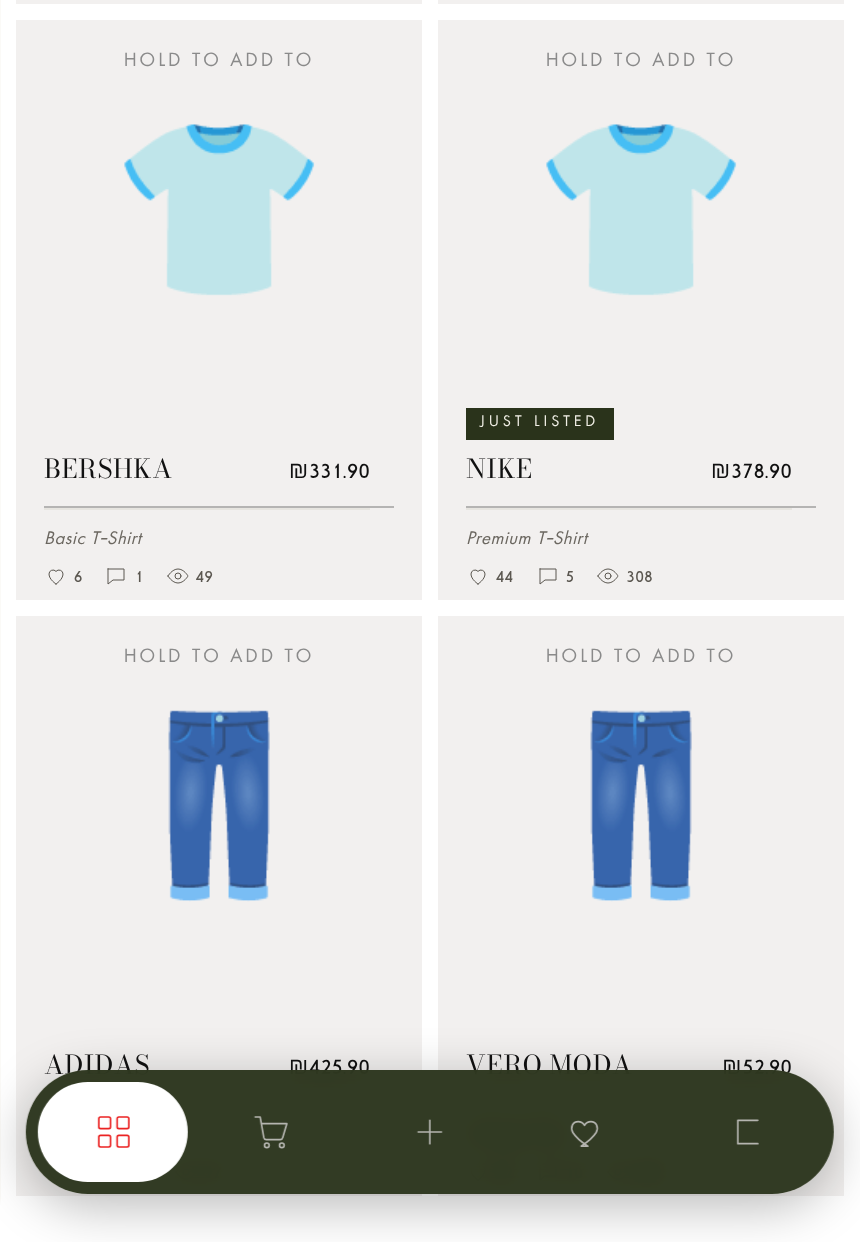
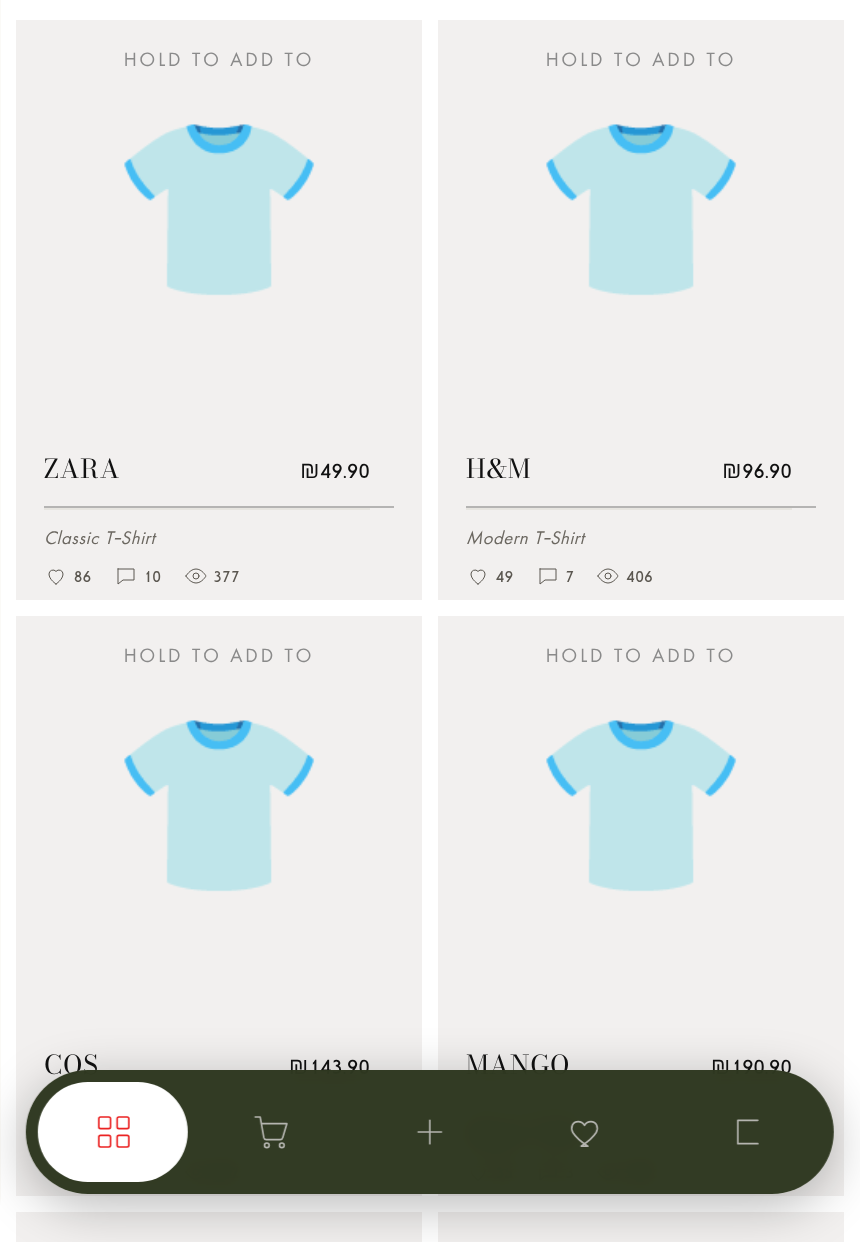
Feed cards: drop the Popular / Just listed tag
Claude-Session: https://claude.ai/code/session_011eJFT5j73mRgnWhpcGvqfp

diff --git a/index.html b/index.html
@@ -6045,12 +6045,10 @@
 
         /* ---- Feed & category cards: social proof (option 8h) ----
            A third copy row under the name — saves · offers · views as outline
-           icons — and, on some cards, a small deep-oak tag sitting on the field
-           just above the copy (clear of the centred hold hint at the top). The
-           foot grows by one row so the piece keeps its room. */
+           icons. The foot grows by one row so the piece keeps its room. */
         .products-grid .product-card,
         .acat-grid .product-card { --foot-h: 92px; }
-        .pc-stats, .pc-tag { display: none; }
+        .pc-stats { display: none; }
         .products-grid .pc-stats,
         .acat-grid .pc-stats {
             grid-area: 4 / 1 / 5 / -1;
@@ -6070,20 +6068,6 @@
             fill: none; stroke: #5b5750; stroke-width: 1.6 !important;
             stroke-linecap: round; stroke-linejoin: round;
         }
-        .products-grid .pc-tag,
-        .acat-grid .pc-tag {
-            display: block;
-            position: absolute; left: 14px; bottom: calc(var(--foot-h) - 12px);
-            z-index: 3; pointer-events: none;
-            background: #2A331B; color: #f1efe6;
-            padding: 3px 7px;
-            font-family: 'Oswald', 'Segoe UI', Helvetica, Arial, sans-serif !important;
-            font-size: 8px; font-weight: 400; letter-spacing: 2px; line-height: 1.2;
-            text-transform: uppercase;
-        }
-        /* A sale card already carries its frame and red price — no second tag. */
-        .products-grid .product-card.is-sale .pc-tag,
-        .acat-grid .product-card.is-sale .pc-tag { display: none; }
 
         /* ==================== SECURE CHAT — Quiet Luxury UI ==================== */
         .vchat {
@@ -10508,8 +10492,7 @@ window.veroLocalImg = function (key) {
         // (which some engines ignore for negative RTL offsets).
         // Build a single product card (shared by the home feed and category pages
         // so both render at identical size and form).
-        // Social proof on the feed card (option 8h): saves · offers · views, plus
-        // an occasional "Just listed" / "Popular" tag. A product's own counts are
+        // Social proof on the feed card (option 8h): saves · offers · views. A product's own counts are
         // used when it carries them; until the backend tracks these, steady demo
         // figures are derived from the product id so a card never changes between
         // renders.
@@ -10521,8 +10504,7 @@ window.veroLocalImg = function (key) {
             const saves = prod.saves ?? prod.likes ?? (h % 96) + 4;
             const offers = prod.offers ?? Math.floor(saves / 9) + ((h >>> 8) % 3);
             const views = prod.views ?? saves * (4 + ((h >>> 12) % 5)) + ((h >>> 16) % 40);
-            const tag = prod.tag ?? (saves >= 88 ? 'Popular' : ((h >>> 20) % 7 === 0 ? 'Just listed' : ''));
-            return { saves, offers, views, tag };
+            return { saves, offers, views };
         }
         function veroSocialHTML(prod) {
             const s = veroSocialStats(prod);
@@ -10532,10 +10514,6 @@ window.veroLocalImg = function (key) {
                 `<span title="Offers">${ico('<path d="M4 5h16v11H9l-5 4V5z"/>')}${s.offers}</span>` +
                 `<span title="Views">${ico('<path d="M2 12s4-7 10-7 10 7 10 7-4 7-10 7S2 12 2 12z"/><circle cx="12" cy="12" r="3"/>')}${s.views}</span>` +
                 `</div>`;
-        }
-        function veroSocialTagHTML(prod) {
-            const t = veroSocialStats(prod).tag;
-            return t ? `<span class="pc-tag">${t}</span>` : '';
         }
 
         function productCardHTML(prod) {
@@ -10557,7 +10535,6 @@ window.veroLocalImg = function (key) {
                         <div class="pc-face pc-front">
                             <div class="product-image">${(prod.processed_cover || prod.cover) ? `<img class="pc-photo" src="${prod.processed_cover || prod.cover}" alt="${prod.name || ''}" draggable="false">` : (prod.icon || '')}</div>
                             <div class="pc-holdhint">hold to add to</div>
-                            ${veroSocialTagHTML(prod)}
                             <div class="product-info">
                                 <div class="pc-headrow">
                                     <div class="product-seller" onclick="event.preventDefault(); event.stopPropagation(); showSellerProfile('${prod.seller}');">${prod.seller}</div>
